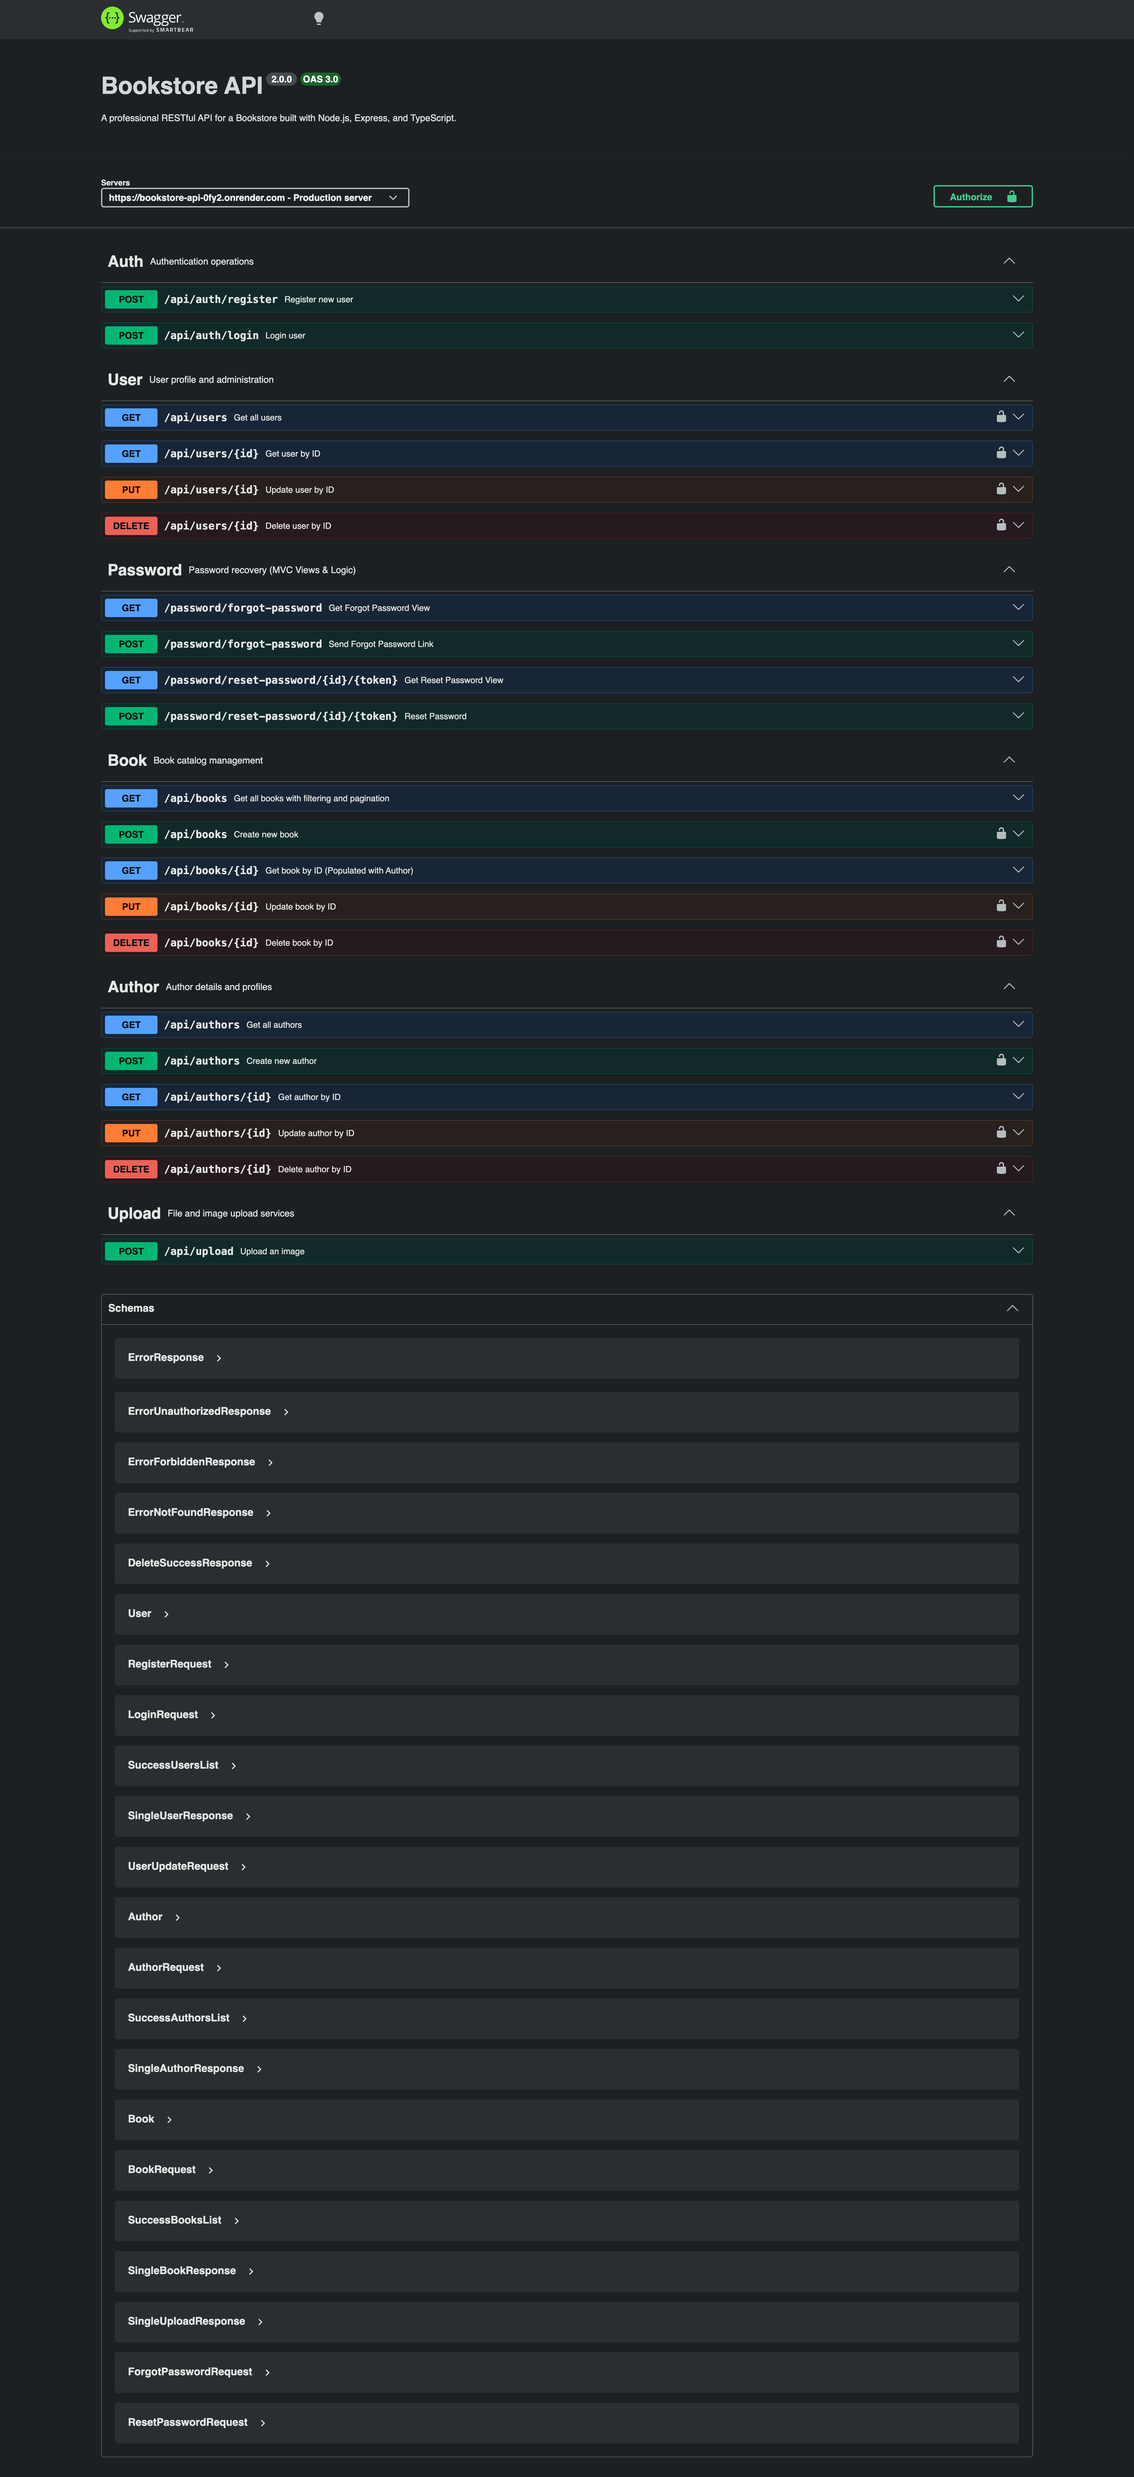
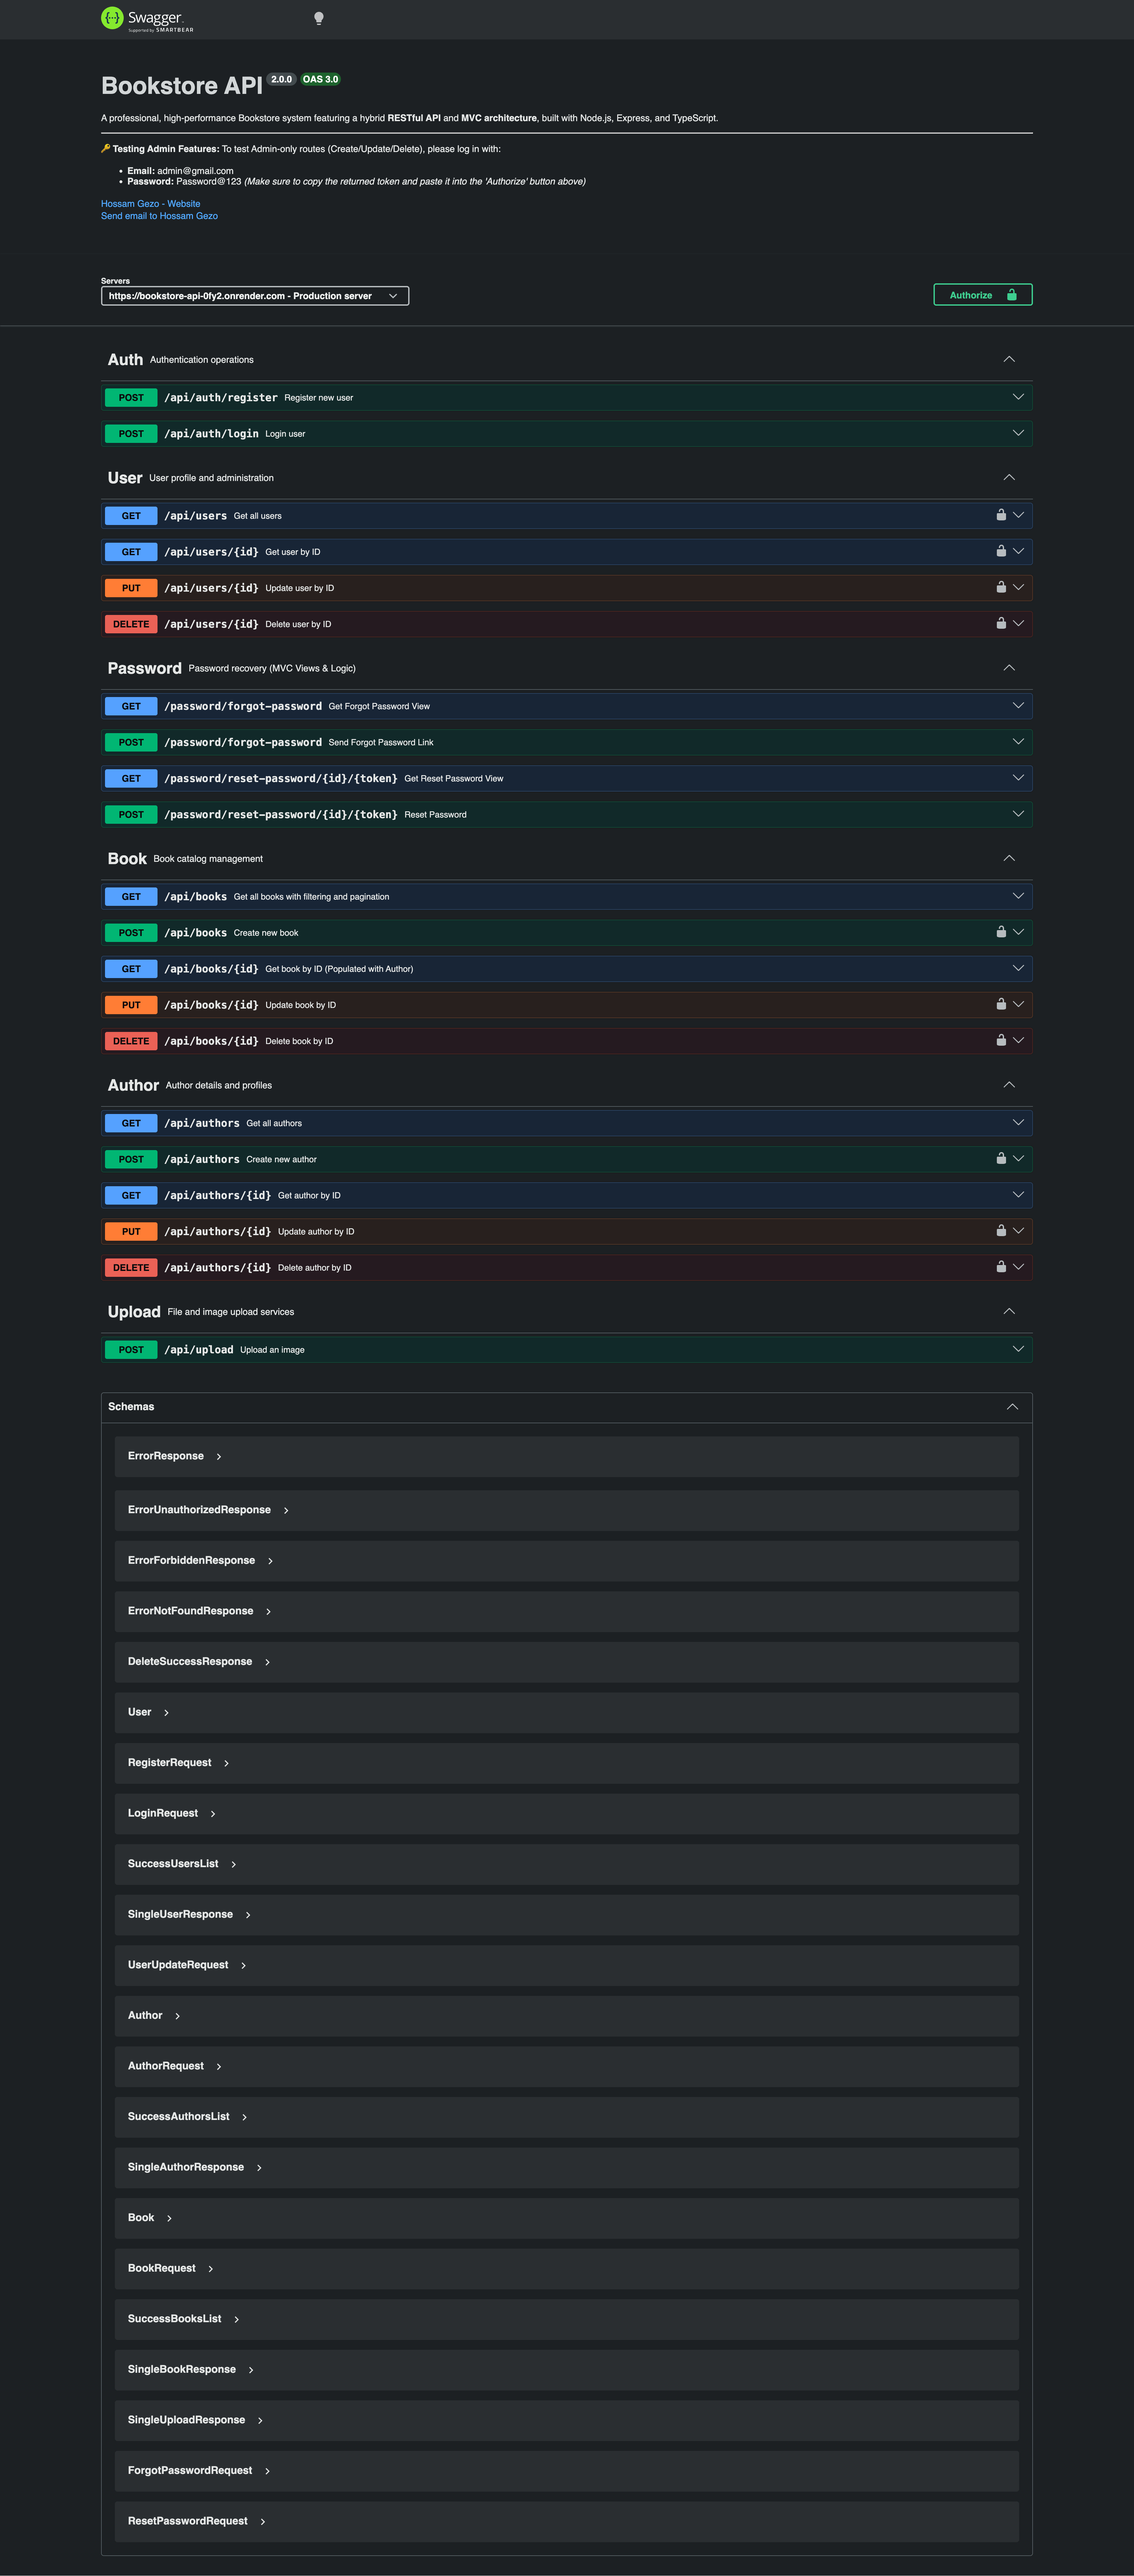
docs: update professional README with live previews and official tech stack badges

diff --git a/README.md b/README.md
@@ -1,27 +1,45 @@
 # 📚 Bookstore API (V2)
 
-[![Build Status](https://img.shields.io/github/actions/workflow/status/HossamGezo/ts-bookstore-api-v2/deploy.yml?branch=release/production-ready&style=for-the-badge&logo=github&logoColor=white)](https://github.com/HossamGezo/ts-bookstore-api-v2/actions)
+[![Build Status](https://img.shields.io/github/actions/workflow/status/HossamGezo/ts-bookstore-api-v2/deploy.yml?branch=main&style=for-the-badge&logo=github&logoColor=white)](https://github.com/HossamGezo/ts-bookstore-api-v2/actions)
 [![Website Status](https://img.shields.io/website?down_color=red&down_message=down&label=Render&logo=render&logoColor=white&style=for-the-badge&up_color=46E3B7&up_message=up&url=https%3A%2F%2Fbookstore-api-0fy2.onrender.com)](https://bookstore-api-0fy2.onrender.com)
 ![DB Status](https://img.shields.io/badge/MongoDB_Atlas-Live-47A248?style=for-the-badge&logo=mongodb&logoColor=white)
 [![Swagger Docs](https://img.shields.io/badge/Swagger-OpenAPI%203.0-6BA539?style=for-the-badge&logo=swagger&logoColor=white)](https://bookstore-api-0fy2.onrender.com/api-docs)
 [![Docker Hub](https://img.shields.io/docker/v/hossamgezo/bookstore-api?style=for-the-badge&logo=docker&logoColor=white&label=Docker%20Hub&color=2496ED)](https://hub.docker.com/r/hossamgezo/bookstore-api)
-[![GitHub License](https://img.shields.io/github/license/HossamGezo/ts-bookstore-api-v2?style=for-the-badge&logo=opensourceinitiative&logoColor=white&color=007EC6)](https://github.com/HossamGezo/ts-bookstore-api-v2/blob/release/production-ready/LICENSE)
+[![GitHub License](https://img.shields.io/github/license/HossamGezo/ts-bookstore-api-v2?style=for-the-badge&logo=opensourceinitiative&logoColor=white&color=007EC6)](https://github.com/HossamGezo/ts-bookstore-api-v2/blob/main/LICENSE)
 
 ---
 
-A professional, high-performance RESTful API for a Bookstore management system. Built with **Node.js**, **Express**, and **TypeScript**, this project implements **Clean Architecture (Modular)**, robust security, a fully automated **CI/CD Pipeline**, and an **MVC pattern** for specialized workflows.
+A professional, high-performance Bookstore system featuring a hybrid **RESTful API** and **MVC architecture**, built with **Node.js**, **Express**, and **TypeScript**. This project implements **Clean Modular Architecture**, robust production security, and a fully automated **CI/CD Pipeline**.
 
-🚀 **Live Demo:** [Interactive Swagger Documentation](https://bookstore-api-0fy2.onrender.com/api-docs)
+🚀 **Live Site:** [https://bookstore-api-0fy2.onrender.com](https://bookstore-api-0fy2.onrender.com)
+
+---
+
+## 📸 Project Showcase
+
+### 🏠 Landing Page (MVC with EJS & Tailwind)
+
+_Click the image to visit the live home page._
+
+[![Welcome UI](./assets/welcome-ui.png)](https://bookstore-api-0fy2.onrender.com)
+
+---
+
+### 📖 Interactive API Explorer (Swagger UI)
+
+_Click the image to test the API endpoints live._
+
+[![Swagger UI](./assets/swagger-ui.png)](https://bookstore-api-0fy2.onrender.com/api-docs)
 
 ---
 
 ## 🛠 Tech Stack
 
-| Backend Core                                                                                      | Database                                                                                                    | DevOps & CI/CD                                                                                                      | Security & Performance                                                                                   |
-| :------------------------------------------------------------------------------------------------ | :---------------------------------------------------------------------------------------------------------- | :------------------------------------------------------------------------------------------------------------------ | :------------------------------------------------------------------------------------------------------- |
-| ![Node.js](https://img.shields.io/badge/Node.js-339933?style=flat&logo=nodedotjs&logoColor=white) | ![MongoDB Atlas](https://img.shields.io/badge/MongoDB_Atlas-47A248?style=flat&logo=mongodb&logoColor=white) | ![Docker](https://img.shields.io/badge/Docker-2496ED?style=flat&logo=docker&logoColor=white)                        | ![TypeScript](https://img.shields.io/badge/TypeScript-3178C6?style=flat&logo=typescript&logoColor=white) |
-| ![Express](https://img.shields.io/badge/Express-000000?style=flat&logo=express&logoColor=white)   | ![Mongoose](https://img.shields.io/badge/Mongoose-880000?style=flat&logo=mongoose&logoColor=white)          | ![GitHub Actions](https://img.shields.io/badge/GitHub_Actions-2088FF?style=flat&logo=githubactions&logoColor=white) | ![Zod](https://img.shields.io/badge/Zod-3E67B1?style=flat&logo=zod&logoColor=white)                      |
-| ![EJS](https://img.shields.io/badge/EJS-B4CA65?style=flat&logo=ejs&logoColor=black)               |                                                                                                             | ![Render](https://img.shields.io/badge/Render-46E3B7?style=flat&logo=render&logoColor=white)                        | ![ESLint](https://img.shields.io/badge/ESLint-4B32C3?style=flat&logo=eslint&logoColor=white)             |
+| Backend Core                                                                                      | Database                                                                                                      | DevOps & CI/CD                                                                                                      | Security & Performance                                                                                   |
+| :------------------------------------------------------------------------------------------------ | :------------------------------------------------------------------------------------------------------------ | :------------------------------------------------------------------------------------------------------------------ | :------------------------------------------------------------------------------------------------------- |
+| ![Node.js](https://img.shields.io/badge/Node.js-339933?style=flat&logo=nodedotjs&logoColor=white) | ![MongoDB Atlas](https://img.shields.io/badge/MongoDB_Atlas-47A248?style=flat&logo=mongodb&logoColor=white)   | ![Docker](https://img.shields.io/badge/Docker-2496ED?style=flat&logo=docker&logoColor=white)                        | ![TypeScript](https://img.shields.io/badge/TypeScript-3178C6?style=flat&logo=typescript&logoColor=white) |
+| ![Express](https://img.shields.io/badge/Express-000000?style=flat&logo=express&logoColor=white)   | ![Mongoose](https://img.shields.io/badge/Mongoose-880000?style=flat&logo=mongoose&logoColor=white)            | ![GitHub Actions](https://img.shields.io/badge/GitHub_Actions-2088FF?style=flat&logo=githubactions&logoColor=white) | ![Zod](https://img.shields.io/badge/Zod-3E67B1?style=flat&logo=zod&logoColor=white)                      |
+| ![EJS](https://img.shields.io/badge/EJS-B4CA65?style=flat&logo=ejs&logoColor=black)               | ![TailwindCSS](https://img.shields.io/badge/Tailwind_CSS-38B2AC?style=flat&logo=tailwind-css&logoColor=white) | ![Render](https://img.shields.io/badge/Render-46E3B7?style=flat&logo=render&logoColor=white)                        | ![Helmet](https://img.shields.io/badge/Helmet-000000?style=flat&logo=helmet&logoColor=white)             |
 
 ---
 
@@ -29,57 +47,62 @@ A professional, high-performance RESTful API for a Bookstore management system. 
 
 ### 🏗 Architecture & Clean Code
 
-- **Modular Design**: Organized by features (**Auth, Users, Books, Authors**) for maximum maintainability.
-- **Hybrid Pattern**: A powerful combination of **REST API** for data and **MVC** (using EJS) for password recovery flows.
-- **Standardized Responses**: Consistent JSON structure across all API endpoints using custom response helpers.
+- **Modular Design**: Fully organized by features (**Auth, Users, Books, Authors**) for maximum scalability.
+- **Hybrid Pattern**: Combination of **REST API** for data exchange and **MVC** (using EJS & Tailwind) for user workflows.
+- **Service Layer**: Business logic is decoupled from controllers using a standardized **Result Object Pattern**.
+- **Global Data Transformation**: Automated MongoDB `_id` to `id` transformation via a custom global plugin.
 
 ### 🔐 Security & Reliability
 
-- **Rate Limiting & Protection**: Protects against DDoS/Brute-force via `express-rate-limit`, `hpp`, and `helmet`.
-- **Authentication**: Secure JWT-based auth with specialized middlewares for Admin and Account Owners.
-- **Data Integrity**: Strict request validation using **Zod** schemas.
+- **Production Hardening**: Protected by `helmet`, `hpp`, and `compression`.
+- **Rate Limiting**: Throttling requests per IP to prevent DDoS and Brute-force attacks.
+- **Authentication**: Secure JWT-based auth with Role-Based Access Control (RBAC).
+- **Validation**: Strict schema validation using **Zod** for both Body and Query parameters.
 
-### ⚡ Performance Optimization
+### ⚡ Performance & Automation
 
-- **Payload Compression**: Uses Gzip compression to speed up data transfer.
-- **Smart Querying**: Built-in support for Pagination, Filtering, and MongoDB Population.
-
----
-
-## 📸 API Documentation Preview
-
-The API is fully documented using **Swagger/OpenAPI 3.0** with modular YAML definitions. You can test Admin features using the credentials provided in the Swagger UI description.
-
-![Swagger UI Preview](./assets/swagger-ui.png)
+- **CI/CD Pipeline**: Fully automated **GitHub Actions** that build and push Docker images to **Docker Hub** on every main push.
+- **Optimized Queries**: Advanced Pagination and Filtering helper using `Promise.all` for parallel database execution.
+- **Multi-stage Docker**: Extremely small and secure production images using Alpine Linux.
 
 ---
 
-## 🚀 Installation & Running
+## 🚀 Getting Started
 
-### 🐳 Using Docker (Recommended)
+### 🐳 Run with Docker (The Easiest Way)
+
+Launch the entire environment (API + Database) with a single command:
 
 ```bash
-# 1. Clone & Setup .env
+# 1. Clone the repository
 git clone https://github.com/HossamGezo/ts-bookstore-api-v2.git
 cd ts-bookstore-api-v2
 
-# 2. Run with one command
-docker-compose up
+# 2. Setup your environment variables
+cp .env.example .env
+
+# 3. Start the application
+docker-compose up -d
 ```
 
-### 💻 Local Development Setup
+### 💻 Local Development
 
-1. **Install dependencies**: `npm install`
-2. **Choose your mode**:
-   - **`npm run dev`**: Start the **API** development server.
-   - **`npm run mvc`**: Start the **Full Stack** development (API + Tailwind CSS Watcher + Views).
+```bash
+# 1. Install dependencies
+npm install
+
+# 2. Start dev server with type checking and tailwind watch
+npm run dev
+# OR for MVC development:
+npm run mvc
+```
 
 ---
 
 ## 📂 Internal Resources
 
 - 📊 **Roadmap**: Check [TODO.md](./TODO.md) for future features.
-- 📓 **Engineering Notes**: Detailed troubleshooting and technical decisions in [DEV_NOTES.md](./DEV_NOTES.md).
+- 📓 **Engineering Notes**: Detailed technical decisions and troubleshooting in [DEV_NOTES.md](./DEV_NOTES.md).
 
 ---
 
@@ -92,4 +115,4 @@ docker-compose up
 
 ---
 
-_This project is licensed under the MIT License._
+_Developed with focus on Clean Architecture and Modern DevOps Practices._
